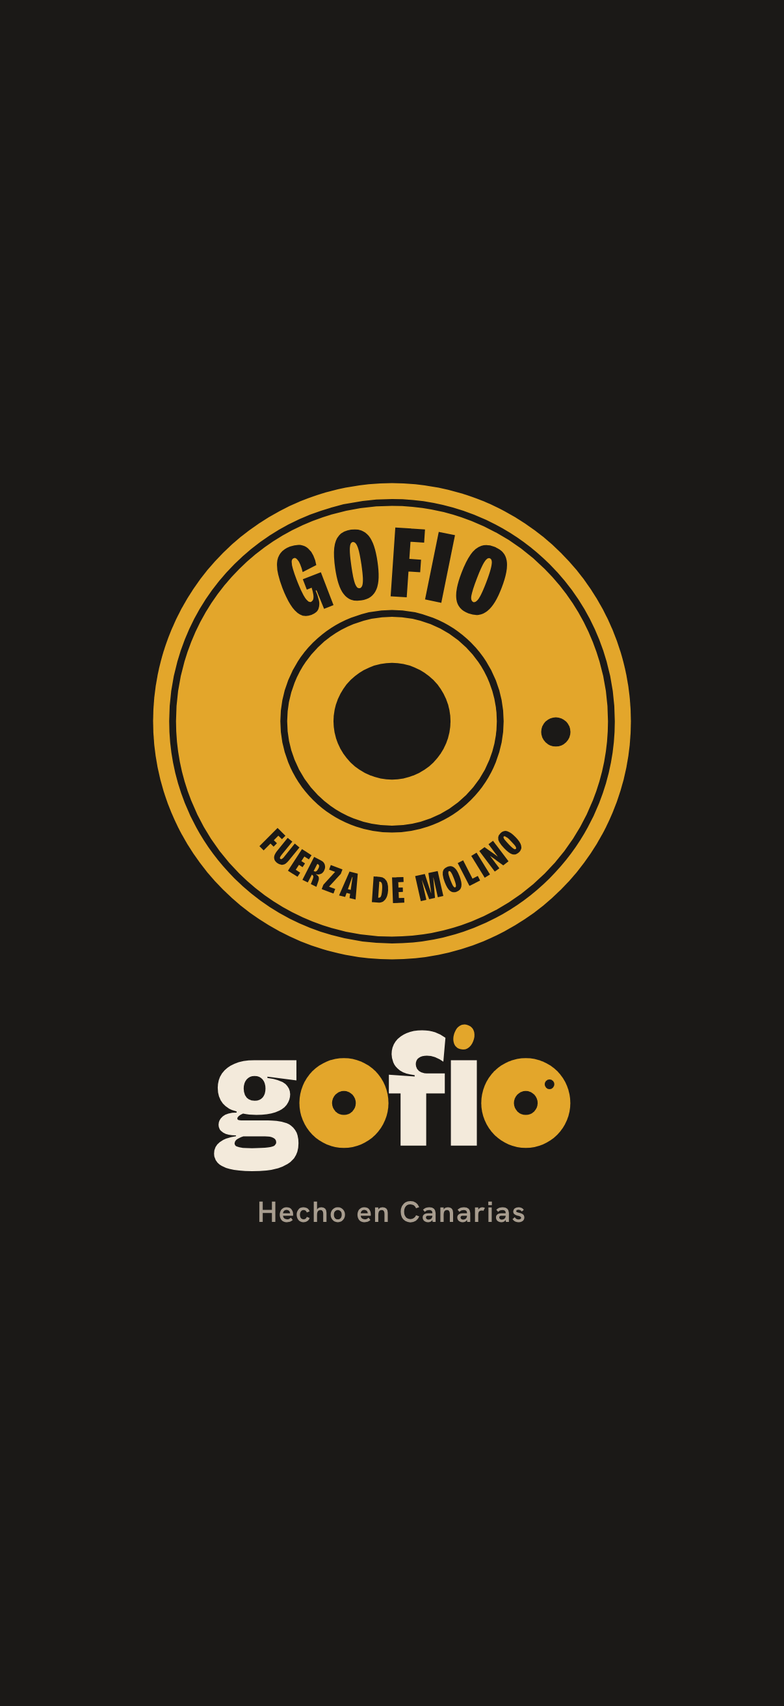
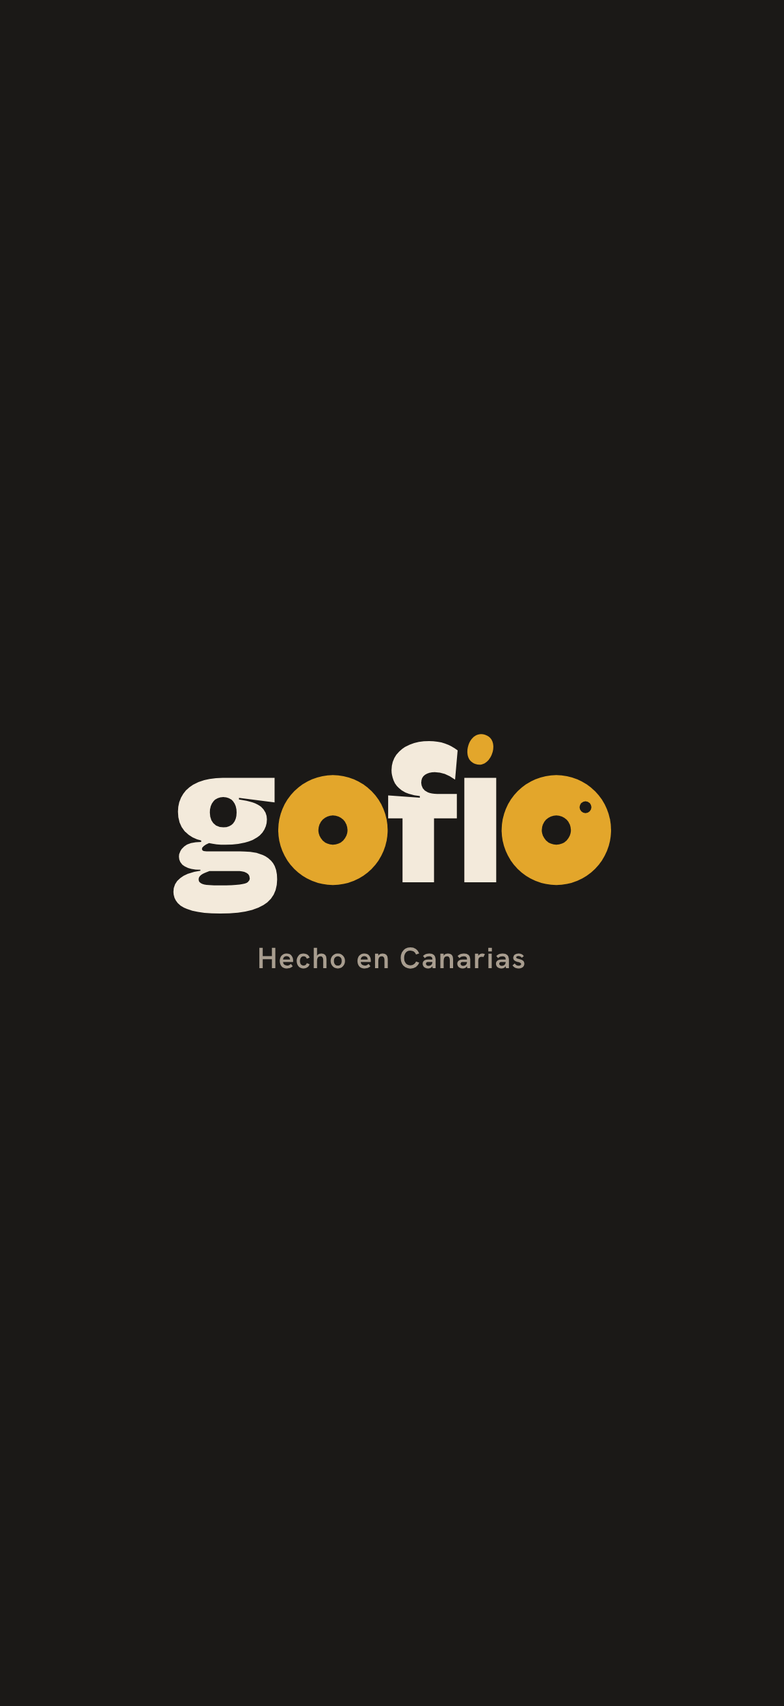
Gofio v0.1.2: arreglos tras probarla en el iPhone
- Cortinilla quieta (logo + «Hecho en Canarias»), igual que la imagen de arranque de iOS; el disco gira en la portada cuando ya se ve.
- «‹ Atrás» en los pasos del primer arranque (del paso 1 a la portada vuelve a girar el disco).
- El brillo del botón pasa una sola vez al aparecer.
- −/+ siempre suman o restan el escalón; sin peso, arrancan en uno de partida según el material. El teclado, solo al tocar el número.
- Más aire en la pantalla de la serie.
- Transiciones solo con transform/opacity (sin filter) para que no den tirones.
- La ventana vuelve a su sitio al cerrar el teclado (la app quedaba «elevada»).

Claude-Session: https://claude.ai/code/session_01SSn3YBBnu5v9KRjVjq7Sfq

Changed region(s): [[0.1841, 0.278, 0.8284, 0.7105], [0.5829, 0.7105, 0.6136, 0.7414]]

diff --git a/js/pantallas/bienvenida.js b/js/pantallas/bienvenida.js
@@ -3,21 +3,25 @@
 import * as G from '../cerebro/index.js';
 import { ajuste, ponerAjuste } from '../logica.js';
 import { pedirPersistencia } from '../datos.js';
-import { el, esc, icono, vibrar, grano, escalonar, pop, avisar } from '../ui.js';
+import { el, esc, icono, vibrar, grano, escalonar, pop, avisar, cuandoRevelada } from '../ui.js';
 import { formularioCargas, guardarCargas, importarCopia } from './ajustes.js';
 
 const TOTAL = 5;
-const progreso = (paso) => `<div class="pasos-arranque" role="img" aria-label="Paso ${paso} de ${TOTAL}">${Array.from({ length: TOTAL }, (_, i) => grano(i < paso, i === paso - 1 ? 'cae' : '')).join('')}</div>`;
+const progresoGranos = (paso) => `<div class="pasos-arranque" role="img" aria-label="Paso ${paso} de ${TOTAL}">${Array.from({ length: TOTAL }, (_, i) => grano(i < paso, i === paso - 1 ? 'cae' : '')).join('')}</div>`;
+// Cabecera de cada paso: «‹ Atrás» (al inicio, o a Ajustes si vienes de ahí) y los granos de progreso (G53).
+let desdeAjustesActual = false;
+const progreso = (paso) => `<div class="cabeza-paso"><button class="volver" type="button" data-atras>${icono('atras')}${paso === 1 ? (desdeAjustesActual ? 'Ajustes' : 'Inicio') : 'Atrás'}</button>${progresoGranos(paso)}</div>`;
 const marca = `<span class="marca-el" aria-hidden="true">${icono('check')}</span>`;
 const rutinaGofio = () => G.proponerRutina({ dias: ajuste('diasDisponibles') ?? 3, minutos: ajuste('minutos'), objetivo: ajuste('objetivo') });
 
 export function bienvenidaPantalla({ paso = 0, desdeAjustes = false } = {}, nav) {
   const perfil = ajuste('perfil');
+  desdeAjustesActual = desdeAjustes;
   const siguiente = (n) => nav.ir('bienvenida', { paso: n, desdeAjustes }, { modo: 'empuja' });
   let cuerpo = '';
 
   if (paso === 0) {
-    cuerpo = `<div class="bienvenida-disco arranca" aria-hidden="true"><img src="iconos/disco-millo.svg" alt="" width="660" height="660"></div>
+    cuerpo = `<div class="bienvenida-disco" aria-hidden="true"><img src="iconos/disco-millo.svg" alt="" width="660" height="660"></div>
       <div class="relleno"></div>
       <img class="bienvenida-logo" src="iconos/gofio-logo-oscuro.svg" alt="Gofio" width="220" height="90">
       <p class="titular bienvenida-lema">Tu gym, a tu ritmo.</p>
@@ -26,7 +30,7 @@ export function bienvenidaPantalla({ paso = 0, desdeAjustes = false } = {}, nav)
   } else if (paso === 1) {
     const actual = ajuste('objetivo');
     cuerpo = `<div class="paso-bienvenida col">${progreso(1)}
-      <h1 class="titular grande" style="margin-top:14px">¿Qué buscas?</h1>
+      <h1 class="titular grande" style="margin-top:10px">¿Qué buscas?</h1>
       <div class="elecciones" role="radiogroup" aria-label="Objetivo">${Object.entries(G.OBJETIVOS).map(([id, o]) => `
         <button class="tarjeta-eleccion" type="button" role="radio" aria-checked="${id === actual}" data-objetivo="${id}">${marca}<span><b>${o.nombre}</b><span class="d">${o.texto}</span></span></button>`).join('')}</div>
       <p class="etiqueta" style="margin-top:12px">Lo cambias cuando quieras.</p>
@@ -35,7 +39,7 @@ export function bienvenidaPantalla({ paso = 0, desdeAjustes = false } = {}, nav)
   } else if (paso === 2) {
     const dias = ajuste('diasDisponibles') ?? 3, min = ajuste('minutos');
     cuerpo = `<div class="paso-bienvenida col">${progreso(2)}
-      <h1 class="titular grande" style="margin-top:14px">¿Cuánto puedes venir?</h1>
+      <h1 class="titular grande" style="margin-top:10px">¿Cuánto puedes venir?</h1>
       <p class="fuerte" style="margin-top:22px">Días a la semana</p>
       <div class="fila-opciones" role="radiogroup" aria-label="Días a la semana">${[1, 2, 3, 4, 5, 6].map((d) => `<button class="chip" type="button" role="radio" aria-pressed="${d === dias}" aria-checked="${d === dias}" data-dias="${d}">${d}</button>`).join('')}</div>
       <p class="fuerte" style="margin-top:22px">Minutos por sesión</p>
@@ -49,7 +53,7 @@ export function bienvenidaPantalla({ paso = 0, desdeAjustes = false } = {}, nav)
     const eleccion = actual.propuesta ? 'gofio' : 'tuya';
     const vista = vistaRutina(eleccion === 'gofio' ? propuesta : actual);
     cuerpo = `<div class="paso-bienvenida col">${progreso(3)}
-      <h1 class="titular grande" style="margin-top:14px">Tu rutina.</h1>
+      <h1 class="titular grande" style="margin-top:10px">Tu rutina.</h1>
       <div class="elecciones" role="radiogroup" aria-label="Rutina">
         <button class="tarjeta-eleccion" type="button" role="radio" aria-checked="${eleccion === 'gofio'}" data-rutina="gofio">${marca}<span><b>Que Gofio me proponga una</b><span class="d">${esc(G.REPARTOS[Math.min(6, Math.max(1, ajuste('diasDisponibles') ?? 3))].nombre)} · ${propuesta.dias.length} ${propuesta.dias.length === 1 ? 'día' : 'días'} · ${propuesta.minutos} min</span></span></button>
         <button class="tarjeta-eleccion" type="button" role="radio" aria-checked="${eleccion === 'tuya'}" data-rutina="tuya">${marca}<span><b>La mía</b><span class="d">${esc(G.PLANTILLA_SERGIO.nombre.replace('Rutina de Sergio · ', ''))}: ${G.PLANTILLA_SERGIO.dias.map((d) => esc(d.nombre)).join(', ')}</span></span></button>
@@ -59,7 +63,7 @@ export function bienvenidaPantalla({ paso = 0, desdeAjustes = false } = {}, nav)
       <div class="pie-fijo"><button class="boton" type="button" data-sig>${desdeAjustes ? 'Guardar' : 'Seguir'}</button></div></div>`;
   } else if (paso === 4) {
     cuerpo = `<div class="paso-bienvenida col">${progreso(4)}
-      <h1 class="titular grande" style="margin-top:14px">Sobre ti.</h1>
+      <h1 class="titular grande" style="margin-top:10px">Sobre ti.</h1>
       <p class="texto-2" style="margin-top:10px">Opcional. Para la parte de comida, que llega pronto.</p>
       <div class="tarjeta" style="margin-top:16px">
         <label class="fila"><span class="que">Peso<small>kg</small></span><input class="campo" data-perfil="peso" inputmode="decimal" value="${perfil.peso ?? ''}"></label>
@@ -70,7 +74,7 @@ export function bienvenidaPantalla({ paso = 0, desdeAjustes = false } = {}, nav)
       <div class="pie-fijo"><button class="boton" type="button" data-sig>Seguir</button></div></div>`;
   } else {
     cuerpo = `<div class="paso-bienvenida col">${progreso(5)}
-      <h1 class="titular grande" style="margin-top:14px">¿Sabes tus pesos?</h1>
+      <h1 class="titular grande" style="margin-top:10px">¿Sabes tus pesos?</h1>
       <p class="texto-2" style="margin-top:10px">Pon los que sepas. El resto, en tu primera serie.</p>
       <div class="tarjeta" style="margin-top:8px">${formularioCargas()}</div>
       <div style="height:20px"></div>
@@ -94,6 +98,8 @@ export function bienvenidaPantalla({ paso = 0, desdeAjustes = false } = {}, nav)
   }));
   nodo.querySelector('[data-importar]')?.addEventListener('click', () => importarCopia(async () => { await ponerAjuste('inicioHecho', true); nav.ir('hoy', {}, { modo: 'pestana' }); }));
 
+  nodo.querySelector('[data-atras]')?.addEventListener('click', () => { vibrar(); nav.volver(); });
+
   nodo.querySelector('[data-sig]').onclick = async () => {
     vibrar();
     if (paso === 3) {
@@ -115,7 +121,11 @@ export function bienvenidaPantalla({ paso = 0, desdeAjustes = false } = {}, nav)
   };
   return {
     nodo, pestana: null, sinGesto: paso === 0,
-    alEntrar() { escalonar(nodo.querySelectorAll('.tarjeta-eleccion, .fila-opciones .chip, .vista-rutina > *, .tarjeta .fila')); },
+    alEntrar() {
+      // El disco de la portada gira al entrar (también al volver del paso 1), pero nunca detrás de la cortinilla.
+      const disco = nodo.querySelector('.bienvenida-disco');
+      if (disco) cuandoRevelada(() => requestAnimationFrame(() => disco.classList.add('arranca')));
+      escalonar(nodo.querySelectorAll('.tarjeta-eleccion, .fila-opciones .chip, .vista-rutina > *, .tarjeta .fila')); },
   };
 }
 

diff --git a/css/app.css b/css/app.css
@@ -99,9 +99,9 @@ h1, h2, h3, p { margin: 0; }
 .boton:not(.plano):not(.oscuro):not(.millo)::before {
   content: ""; position: absolute; z-index: -1; top: -20%; bottom: -20%; left: 0; width: 38%;
   background: linear-gradient(100deg, transparent 0%, rgba(255, 236, 200, .0) 20%, rgba(255, 236, 200, .38) 50%, rgba(255, 236, 200, 0) 80%, transparent 100%);
-  transform: translateX(-140%) skewX(-18deg); animation: brillo 6.5s cubic-bezier(.4,0,.2,1) .5s infinite;
+  transform: translateX(-140%) skewX(-18deg); animation: brillo 1.15s cubic-bezier(.4,0,.2,1) .45s 1 both;
 }
-@keyframes brillo { 0% { transform: translateX(-140%) skewX(-18deg); } 16%, 100% { transform: translateX(330%) skewX(-18deg); } }
+@keyframes brillo { from { transform: translateX(-140%) skewX(-18deg); } to { transform: translateX(330%) skewX(-18deg); } } /* una sola pasada al aparecer (G53) */
 .boton.oscuro:active { box-shadow: 0 0 0 6px rgba(27, 25, 23, .18), 0 12px 30px -8px rgba(0,0,0,.6); }
 .boton.millo:active { box-shadow: 0 0 0 7px rgba(227, 166, 43, .28), 0 14px 36px -8px rgba(227, 166, 43, .9); }
 /* La onda desde el dedo (ui.js) */
@@ -221,7 +221,7 @@ h1, h2, h3, p { margin: 0; }
 .sugerencia { margin-top: 12px; display: flex; gap: 10px; align-items: center; padding: 10px 12px; border-radius: 12px; background: var(--basalto-2); font-size: 14px; line-height: 1.3; }
 .sugerencia .flecha { flex: none; width: 26px; height: 26px; display: grid; place-items: center; border-radius: 8px; background: var(--millo); color: var(--basalto); }
 .sugerencia .flecha svg { width: 16px; height: 16px; }
-.paso { display: flex; align-items: center; justify-content: space-between; gap: 8px; margin-top: 18px; }
+.paso { display: flex; align-items: center; justify-content: space-between; gap: 12px; margin-top: 22px; }
 .paso .valor { flex: 1; text-align: center; position: relative; }
 .paso .valor button { width: 100%; }
 .paso .cifra.peso { font-size: 104px; letter-spacing: -0.01em; }
@@ -231,9 +231,9 @@ h1, h2, h3, p { margin: 0; }
 .cifra.baja { animation: baja .22s var(--curva-salida); }
 @keyframes sube { from { transform: translateY(14px); opacity: .2; } to { transform: none; opacity: 1; } }
 @keyframes baja { from { transform: translateY(-14px); opacity: .2; } to { transform: none; opacity: 1; } }
-.rir { margin-top: 18px; }
+.rir { margin-top: 26px; }
 .rir h3 { font-size: 15px; font-weight: 600; margin-bottom: 10px; }
-.rir-botones { display: grid; grid-template-columns: repeat(5, 1fr); gap: 8px; }
+.rir-botones { display: grid; grid-template-columns: repeat(5, 1fr); gap: 10px; }
 .rir-botones button {
   height: 60px; border-radius: 12px; background: var(--basalto-2);
   font-family: var(--letra-titulo); font-stretch: var(--estrecha); font-weight: 800; font-size: 28px;
@@ -242,10 +242,10 @@ h1, h2, h3, p { margin: 0; }
 .rir-botones button:active { transform: scale(.94); }
 .rir-botones button[aria-pressed="true"] { background: var(--millo); color: var(--basalto); }
 .rir-pie { display: flex; justify-content: space-between; margin-top: 6px; font-size: 12px; color: var(--piedra); }
-.serie-herramientas { display: flex; gap: 8px; margin-top: 16px; overflow-x: auto; scrollbar-width: none; }
+.serie-herramientas { display: flex; gap: 10px; margin: 22px -24px 0; padding: 2px 24px 6px; overflow-x: auto; scrollbar-width: none; }
 .serie-herramientas::-webkit-scrollbar { display: none; }
 .nota-ejercicio { margin-top: 10px; font-size: 14px; color: var(--harina-texto); padding: 10px 12px; border-radius: 12px; border: 1px dashed var(--basalto-3); }
-.boton-guardar { margin-top: 16px; }
+.boton-guardar { margin-top: 24px; }
 
 /* ── DESCANSO ──────────────────────────────────────────────────── */
 .descanso-disco { position: relative; width: 300px; height: 300px; margin: 18px auto 0; }
@@ -338,7 +338,8 @@ h1, h2, h3, p { margin: 0; }
 .bienvenida.con-pie { padding-bottom: 0; }
 .bienvenida-disco { position: absolute; left: 50%; top: -330px; width: 660px; height: 660px; margin-left: -330px; }
 .bienvenida-disco img { width: 100%; height: 100%; }
-.bienvenida-disco.arranca img { animation: arranca 1.4s cubic-bezier(.16,1,.3,1) both; }
+.bienvenida-disco img { opacity: 0; }
+.bienvenida-disco.arranca img { animation: arranca 1.5s cubic-bezier(.16,1,.3,1) both; }
 @keyframes arranca { from { transform: rotate(-80deg) scale(.92); opacity: 0; } to { transform: rotate(0) scale(1); opacity: 1; } }
 .bienvenida-logo { width: 220px; margin-top: auto; }
 .bienvenida-lema { margin-top: 22px; font-size: 30px; line-height: 1.05; }
@@ -427,8 +428,8 @@ h1, h2, h3, p { margin: 0; }
 
 /* ── Cortinilla de entrada ─────────────────────────────────────── */
 #cortinilla { position: fixed; inset: 0; z-index: 100; display: flex; flex-direction: column; align-items: center; justify-content: center;
-  background: var(--basalto); transition: opacity .45s ease, transform .6s var(--curva-salida); }
-#cortinilla.fuera { opacity: 0; transform: scale(1.06); pointer-events: none; }
+  background: var(--basalto); transition: opacity .38s ease; }
+#cortinilla.fuera { opacity: 0; pointer-events: none; }
 .col { display: flex; flex-direction: column; flex: 1; }
 /* Botón principal de cada pantalla siempre a la vista al desplazar. */
 .pantalla > .boton:last-child { position: sticky; bottom: calc(env(safe-area-inset-bottom, 0px) + 8px); z-index: 2; flex: none; }
@@ -436,3 +437,9 @@ h1, h2, h3, p { margin: 0; }
 .fila-opciones .chip { flex: 1 1 0; min-width: 0; padding: 0; }
 .serie-herramientas .chip, .fila-chips .chip { flex: none; }
 .chip svg { flex: none; }
+
+/* Velo que oscurece la pantalla de debajo al entrar otra (más ligero que animar filter). */
+.velo { position: absolute; inset: 0; background: rgba(0, 0, 0, .32); pointer-events: none; opacity: 0; }
+@media (prefers-reduced-motion: reduce) { .bienvenida-disco img { opacity: 1; } }
+.cabeza-paso { display: flex; align-items: center; justify-content: space-between; min-height: 44px; }
+.cabeza-paso .pasos-arranque { margin-top: 0; } .cabeza-paso .volver { margin-left: -6px; padding: 0 6px; }

diff --git a/js/app.js b/js/app.js
@@ -53,9 +53,14 @@ export function ir(nombre, params = {}, { modo = 'empuja' } = {}) {
   if (reduceMovimiento()) {
     nueva.nodo.animate([{ opacity: 0 }, { opacity: 1 }], { duration: 160 }).finished.then(quitar);
   } else if (modo === 'empuja') {
-    vieja.nodo.animate([{ transform: 'translateX(0)', filter: 'brightness(1)' }, { transform: 'translateX(-28%)', filter: 'brightness(.7)' }], { duration: 420, easing: CURVA, fill: 'forwards' });
+    // Solo transform y opacity (en el iPhone, animar filter en una pantalla entera da tirones y parece que salta).
+    const velo = el('<div class="velo"></div>');
+    app.insertBefore(velo, nueva.nodo);
+    vieja.nodo.style.willChange = nueva.nodo.style.willChange = 'transform';
+    vieja.nodo.animate([{ transform: 'translateX(0)' }, { transform: 'translateX(-28%)' }], { duration: 440, easing: CURVA, fill: 'forwards' });
+    velo.animate([{ opacity: 0 }, { opacity: 1 }], { duration: 440, easing: CURVA, fill: 'forwards' });
     nueva.nodo.style.boxShadow = '-12px 0 30px -12px rgba(0,0,0,.5)';
-    nueva.nodo.animate([{ transform: 'translateX(100%)' }, { transform: 'translateX(0)' }], { duration: 420, easing: CURVA }).finished.then(() => { nueva.nodo.style.boxShadow = ''; quitar(); });
+    nueva.nodo.animate([{ transform: 'translateX(100%)' }, { transform: 'translateX(0)' }], { duration: 440, easing: CURVA }).finished.then(() => { nueva.nodo.style.boxShadow = ''; nueva.nodo.style.willChange = ''; velo.remove(); quitar(); });
   } else {
     // Cambio de pestaña o reemplazo: fundido corto con un leve desplazamiento hacia arriba.
     nueva.nodo.animate([{ opacity: 0, transform: 'translateY(8px)' }, { opacity: 1, transform: 'none' }], { duration: 220, easing: 'cubic-bezier(.22,1,.36,1)' }).finished.then(quitar);
@@ -75,10 +80,13 @@ export function volver(desde = null) {
   const x0 = desde ?? 0;
   const ancho = app.clientWidth;
   if (reduceMovimiento()) { actual.r.alSalir?.(); actual.nodo.remove(); nueva.r.alEntrar?.(); return; }
-  const dur = Math.max(160, 380 * (1 - x0 / ancho));
-  nueva.nodo.animate([{ transform: `translateX(${-28 + 28 * x0 / ancho}%)`, filter: `brightness(${0.7 + 0.3 * x0 / ancho})` }, { transform: 'translateX(0)', filter: 'brightness(1)' }], { duration: dur, easing: CURVA });
+  const dur = Math.max(180, 400 * (1 - x0 / ancho));
+  const velo = el('<div class="velo"></div>');
+  app.insertBefore(velo, actual.nodo);
+  velo.animate([{ opacity: 1 - x0 / ancho }, { opacity: 0 }], { duration: dur, easing: CURVA, fill: 'forwards' });
+  nueva.nodo.animate([{ transform: `translateX(${-28 + 28 * x0 / ancho}%)` }, { transform: 'translateX(0)' }], { duration: dur, easing: CURVA });
   actual.nodo.animate([{ transform: `translateX(${x0}px)` }, { transform: 'translateX(100%)' }], { duration: dur, easing: CURVA, fill: 'forwards' })
-    .finished.then(() => { actual.r.alSalir?.(); actual.nodo.remove(); });
+    .finished.then(() => { velo.remove(); actual.r.alSalir?.(); actual.nodo.remove(); });
   nueva.r.alEntrar?.();
 }
 export const reemplazar = (nombre, params) => ir(nombre, params, { modo: 'reemplaza' });
@@ -117,7 +125,7 @@ app.addEventListener('pointermove', (e) => {
     const f = gesto.dx / app.clientWidth;
     gesto.actual.nodo.style.transform = `translateX(${gesto.dx}px)`;
     gesto.prev.nodo.style.transform = `translateX(${-28 + 28 * f}%)`;
-    gesto.prev.nodo.style.filter = `brightness(${0.7 + 0.3 * f})`;
+    gesto.prev.nodo.style.opacity = String(0.75 + 0.25 * f);
   }
 });
 function finGesto() {
@@ -128,7 +136,7 @@ function finGesto() {
   const ancho = app.clientWidth;
   g.actual.nodo.style.boxShadow = '';
   if (g.dx > ancho * 0.35 || v > 0.5) {
-    g.prev.nodo.remove(); g.prev.nodo.style.transform = ''; g.prev.nodo.style.filter = '';
+    g.prev.nodo.remove(); g.prev.nodo.style.transform = ''; g.prev.nodo.style.opacity = '';
     g.actual.nodo.style.transform = '';
     volver(g.dx);
   } else {
@@ -167,10 +175,20 @@ const instalada = navigator.standalone === true || matchMedia('(display-mode: st
 
 /** La cortinilla se queda lo justo para que se vea la animación (≈1,4 s desde que se abre) y se va con un fundido. */
 function quitarCortinilla() {
-  const c = document.getElementById('cortinilla'); if (!c) return;
-  const espera = reduceMovimiento() ? 0 : Math.max(0, 1450 - performance.now());
-  setTimeout(() => { c.classList.add('fuera'); setTimeout(() => c.remove(), 650); }, espera);
+  const c = document.getElementById('cortinilla');
+  const revelar = () => { window.gofioRevelada = true; window.dispatchEvent(new Event('gofio:revelada')); };
+  if (!c) { revelar(); return; }
+  // Sin animación propia: es la misma imagen que enseña iOS al arrancar. Se funde y entra la app.
+  requestAnimationFrame(() => { c.classList.add('fuera'); setTimeout(revelar, 120); setTimeout(() => c.remove(), 500); });
 }
+
+// iOS mueve la ventana entera al abrir el teclado y a veces no la devuelve: la app quedaba «elevada» (G53).
+document.addEventListener('focusin', (e) => {
+  if (e.target.matches?.('input, textarea')) setTimeout(() => e.target.scrollIntoView({ block: 'center', behavior: reduceMovimiento() ? 'auto' : 'smooth' }), 320);
+});
+const devolver = () => setTimeout(() => { if (!document.activeElement?.matches?.('input, textarea, select')) window.scrollTo(0, 0); }, 60);
+document.addEventListener('focusout', devolver);
+window.visualViewport?.addEventListener('resize', devolver);
 
 async function inicio() {
   try { await document.fonts.ready; } catch { /* */ }

diff --git a/index.html b/index.html
@@ -29,23 +29,19 @@
 <link rel="preload" href="letras/bricolage-grotesque-latin.woff2" as="font" type="font/woff2" crossorigin>
 <link rel="preload" href="letras/hanken-grotesk-latin.woff2" as="font" type="font/woff2" crossorigin>
 <style>
-/* Lo primero que se pinta: fondo basalto (nada de pantalla gris) y la cortinilla de entrada. */
+/* Lo primero que se pinta: fondo basalto (nada de pantalla gris) y una cortinilla quieta, idéntica a la imagen de arranque
+   de iOS, que se funde cuando la app está lista. El disco girando se queda para la portada (G53). */
 html,body{background:#1B1917;margin:0}
 #cortinilla{position:fixed;inset:0;z-index:100;display:flex;flex-direction:column;align-items:center;justify-content:center;background:#1B1917}
-#cortinilla .c-disco{width:min(62vw,280px);height:min(62vw,280px);animation:c-gira 1.15s cubic-bezier(.16,1,.3,1) both}
-#cortinilla .c-logo{width:min(46vw,200px);height:auto;margin-top:30px;animation:c-sube .7s .5s cubic-bezier(.22,1,.36,1) both}
-#cortinilla .c-sub{margin:14px 0 0;color:#A89D8F;font:600 15px/1 "Hanken Grotesk",system-ui,-apple-system,sans-serif;letter-spacing:.04em;animation:c-sube .7s .7s cubic-bezier(.22,1,.36,1) both}
-@keyframes c-gira{from{transform:rotate(-220deg) scale(.55);opacity:0}to{transform:none;opacity:1}}
-@keyframes c-sube{from{transform:translateY(14px);opacity:0}to{transform:none;opacity:1}}
-@media (prefers-reduced-motion:reduce){#cortinilla *{animation:none!important}}
+#cortinilla .c-logo{width:min(56vw,240px);height:auto}
+#cortinilla .c-sub{margin:16px 0 0;color:#A89D8F;font:600 15px/1 "Hanken Grotesk",system-ui,-apple-system,sans-serif;letter-spacing:.04em}
 </style>
 <link rel="stylesheet" href="css/variables.css">
 <link rel="stylesheet" href="css/app.css">
 </head>
 <body>
 <div id="cortinilla" aria-hidden="true">
-  <img class="c-disco" src="iconos/disco-millo.svg" alt="" width="280" height="280">
-  <img class="c-logo" src="iconos/gofio-logo-oscuro.svg" alt="" width="200" height="82">
+  <img class="c-logo" src="iconos/gofio-logo-oscuro.svg" alt="" width="240" height="98">
   <p class="c-sub">Hecho en Canarias</p>
 </div>
 <div id="app" aria-live="polite"></div>

diff --git a/js/pantallas/serie.js b/js/pantallas/serie.js
@@ -20,6 +20,9 @@ document.addEventListener('visibilitychange', () => {
   if (document.visibilityState === 'visible' && estado.sesiones.some((s) => s.estado === 'en-curso')) mantenerEncendida(true);
 });
 
+/** Peso con el que arrancan −/+ si aún no hay ninguno (barra olímpica vacía, mancuerna ligera…). No es una sugerencia. */
+const PESO_DE_PARTIDA = { barra: 20, smith: 20, mancuernas: 10, maquina: 20, polea: 10, lastre: 0 };
+
 export function seriePantalla({ sesionId, i = 0, nueva = -1 }, nav) {
   const s = sesionPorId(sesionId);
   if (!s) return { nodo: el('<section><p>Esta sesión ya no existe.</p></section>') };
@@ -87,8 +90,10 @@ export function seriePantalla({ sesionId, i = 0, nueva = -1 }, nav) {
   nodo.querySelector('[data-volver]').onclick = () => nav.volver();
   nodo.querySelectorAll('[data-peso]').forEach((b) => b.addEventListener('click', async () => {
     const dir = Number(b.dataset.peso);
-    if (peso == null) { await escribirPeso(); return; }
-    peso = G.siguienteEscalon(peso, escalon, dir); pintarPeso(dir);
+    // −/+ siempre suman o restan el escalón de tu gym. Sin peso aún, arrancan en uno de partida según el material;
+    // el teclado solo sale al tocar el número (G53).
+    if (peso == null) { peso = PESO_DE_PARTIDA[lastre ? 'lastre' : ej.equipo] ?? 10; pintarPeso(dir); vibrar(); return; }
+    peso = Math.max(0, G.siguienteEscalon(peso, escalon, dir)); pintarPeso(dir); vibrar();
   }));
   async function escribirPeso() {
     const v = await pedirNumero({ titulo: lastre ? 'Lastre' : 'Peso', sub: lastre ? 'Kilos extra (0 sin lastre).' : ej.equipo === 'mancuernas' ? 'Kilos de cada mancuerna.' : 'Kilos en total.', valor: peso ?? '' });

diff --git a/js/pantallas/ajustes.js b/js/pantallas/ajustes.js
@@ -5,7 +5,7 @@ import { estado, ajuste, ponerAjuste, arrancar, DESCANSO_POR_DEFECTO } from '../
 import { el, esc, kg, mmss, icono, hoja, confirmar, avisar, vibrar, escalonar } from '../ui.js';
 
 const NOMBRE_EQUIPO = { barra: 'Barra', smith: 'Smith', mancuernas: 'Mancuernas', maquina: 'Máquinas', polea: 'Poleas', lastre: 'Lastre' };
-const VERSION = '0.1.1';
+const VERSION = '0.1.2';
 
 /** Exporta la copia completa: hoja de Compartir en el iPhone (Archivos, iCloud…) o descarga. */
 export async function exportarCopia() {

diff --git a/js/ui.js b/js/ui.js
@@ -225,3 +225,8 @@ export function pop(n, escala = 1.14) {
   if (reduceMovimiento() || !n) return;
   n.animate([{ transform: 'scale(1)' }, { transform: `scale(${escala})` }, { transform: 'scale(1)' }], { duration: 320, easing: 'cubic-bezier(.34,1.56,.64,1)' });
 }
+
+/** Ejecuta algo cuando la cortinilla ya se ha ido (para que las animaciones de entrada se vean, no detrás). */
+export function cuandoRevelada(fn) {
+  if (window.gofioRevelada) fn(); else window.addEventListener('gofio:revelada', fn, { once: true });
+}

diff --git a/sw.js b/sw.js
@@ -1,6 +1,6 @@
 // Service worker de Gofio: guarda la app para que funcione sin conexión (en el sótano del gimnasio).
 // Al publicar una versión nueva se cambia VERSION; la app avisa y el usuario decide cuándo actualizar.
-const VERSION = 'gofio-0.1.1';
+const VERSION = 'gofio-0.1.2';
 const ARCHIVOS = [
   './', 'index.html', 'manifest.webmanifest',
   'css/variables.css', 'css/app.css',
